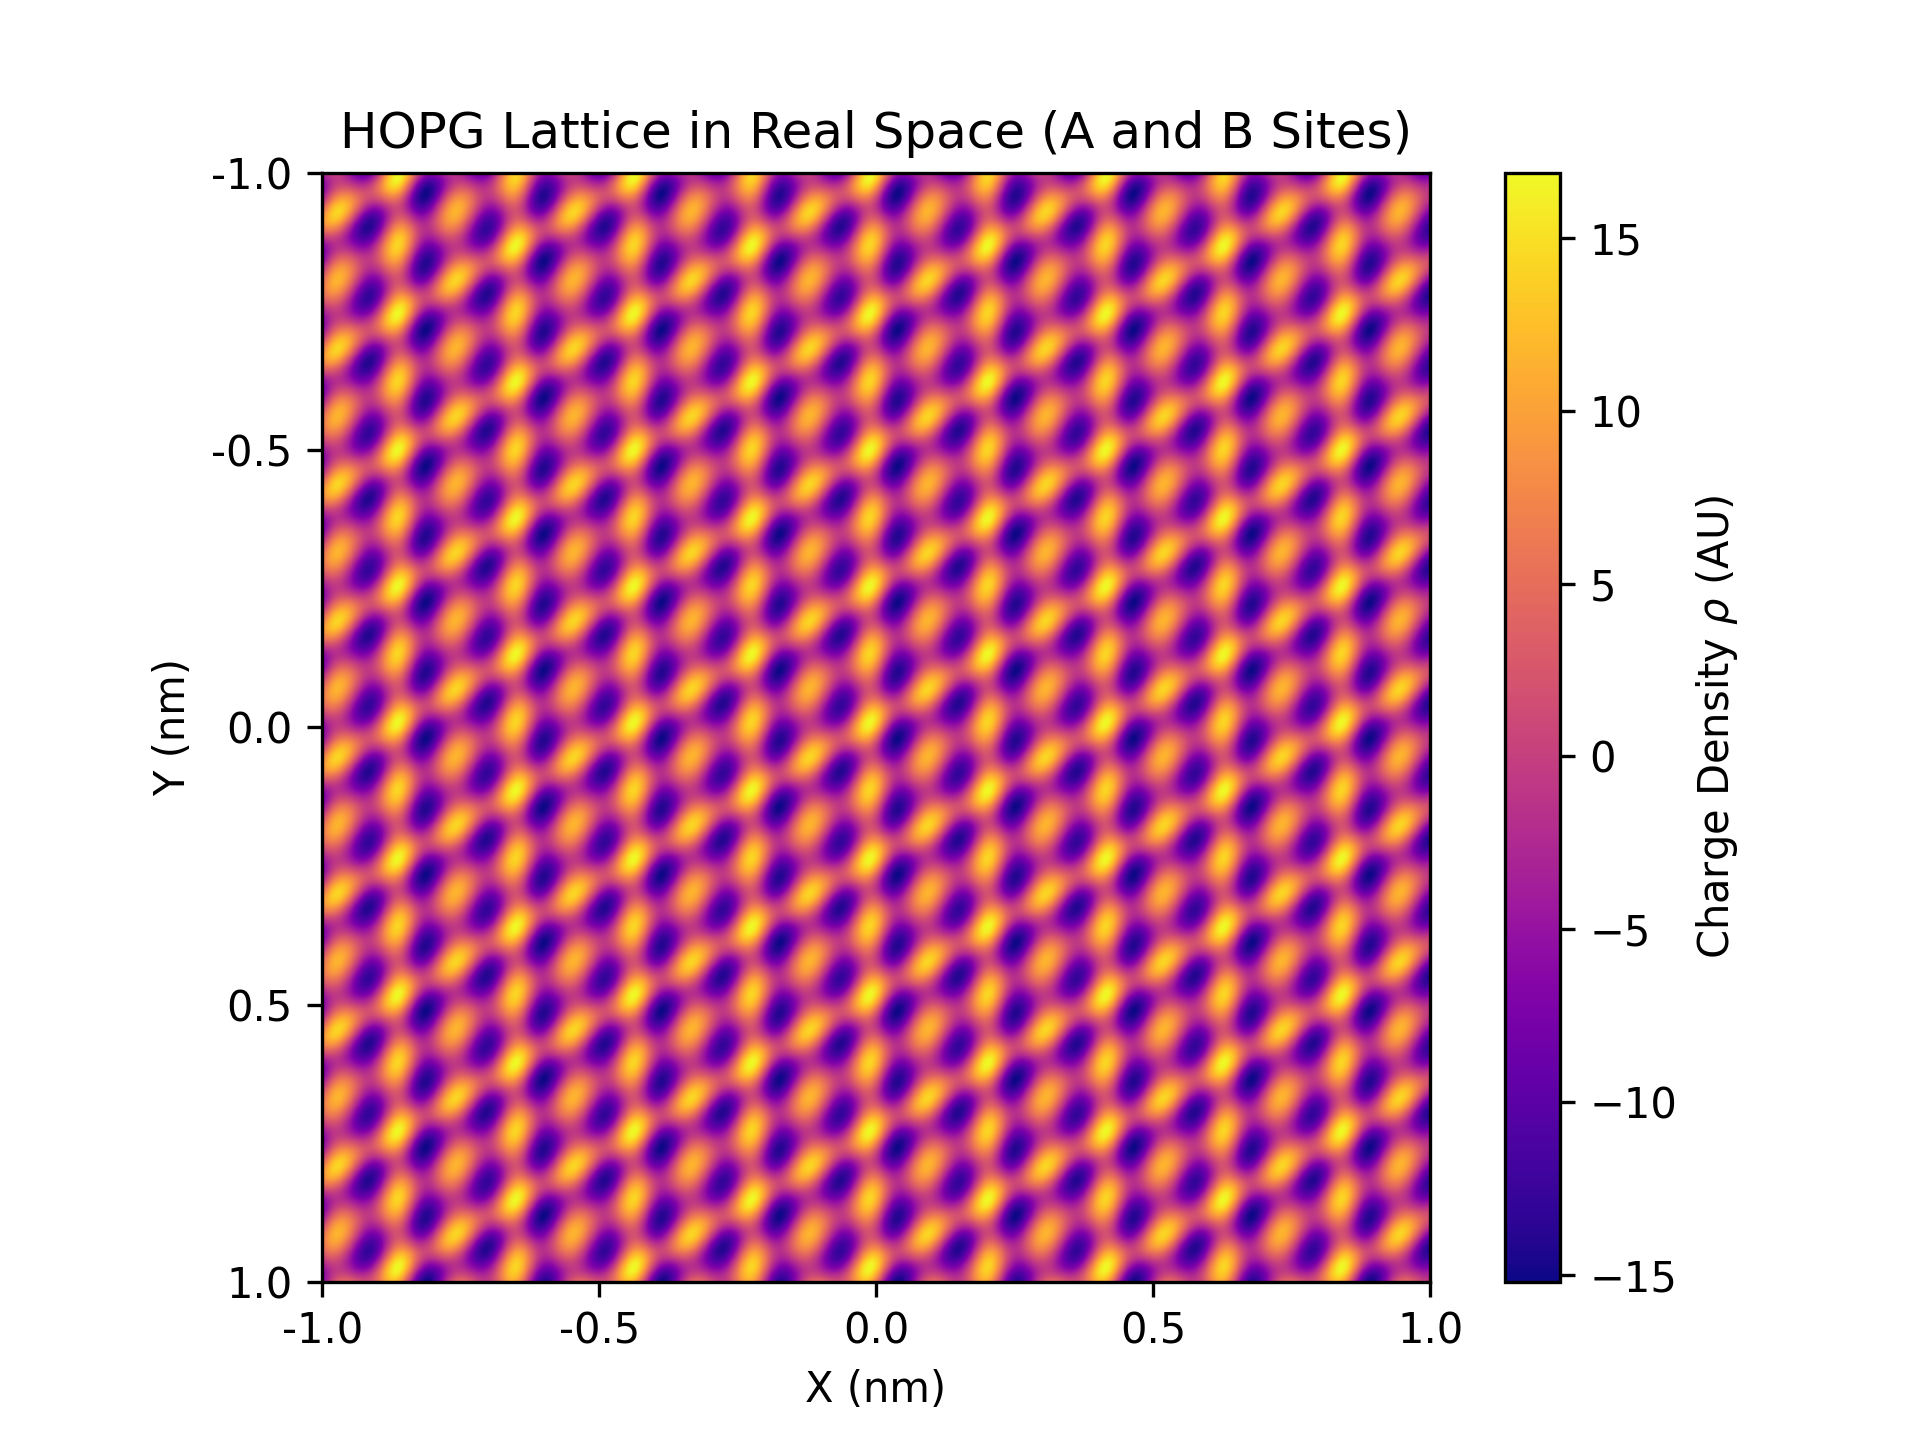
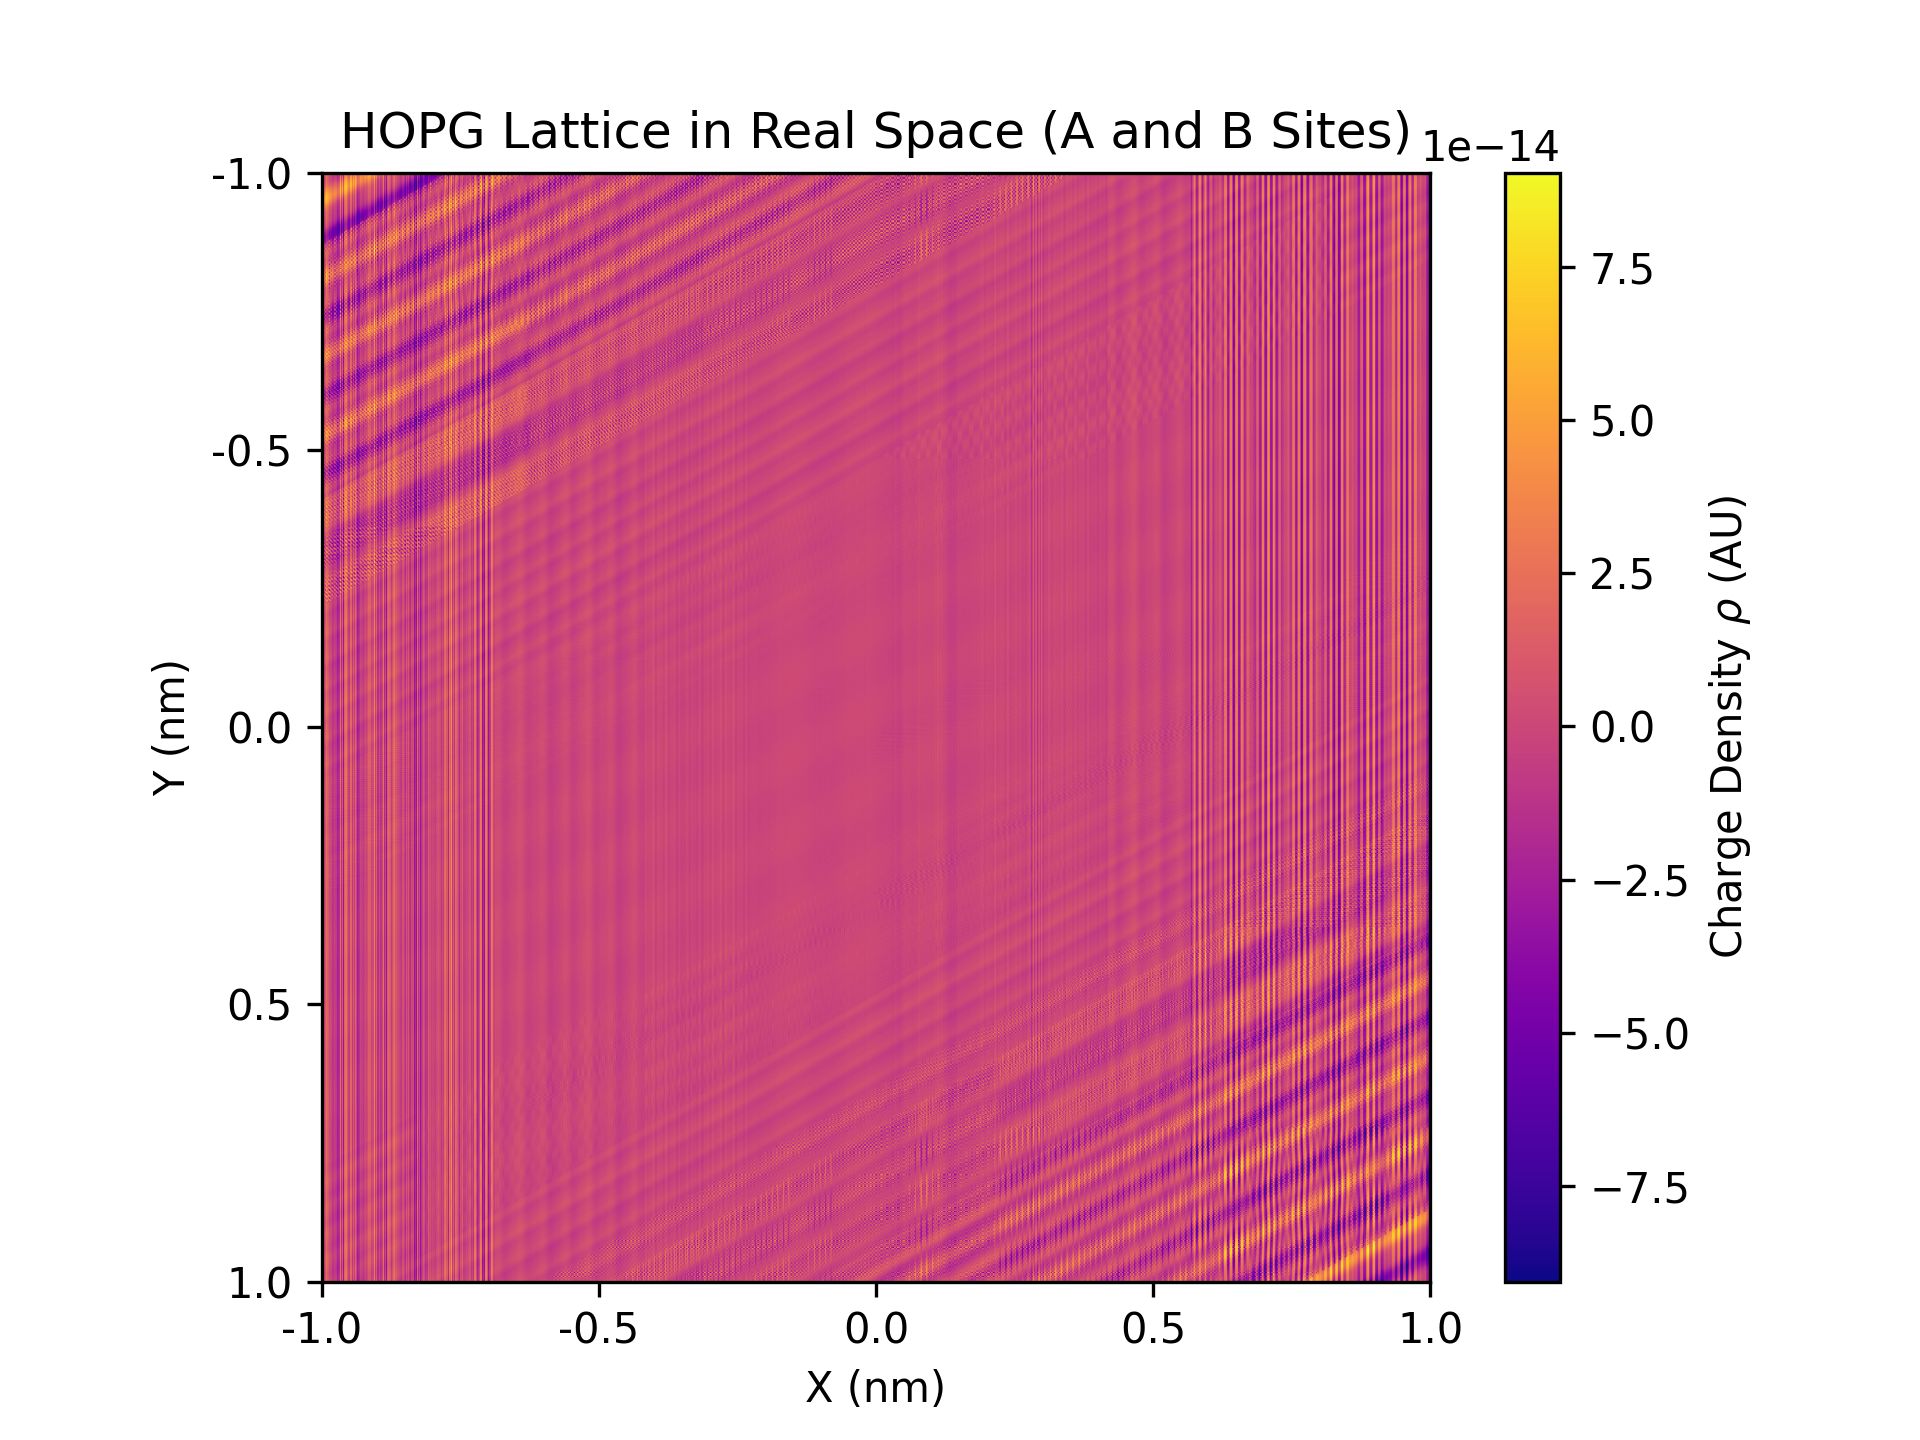
Added A-B site simulation and the inverse space image

diff --git a/FFTSim.py b/FFTSim.py
@@ -8,7 +8,8 @@ def generate_wave_vectors(k, theta, n_harmonics):
     for n in range(1, n_harmonics + 1):
         kx1, ky1 = n * k, 0
         kx2, ky2 = n * k * np.cos(theta), n * k * np.sin(theta)
-        wave_vectors.append((kx1, ky1, kx2, ky2))
+        kx3, ky3 = n * k * np.cos(-theta), n * k * np.sin(-theta)
+        wave_vectors.append((kx1, ky1, kx2, ky2,kx3,ky3))
     return wave_vectors
 
 def generate_coefficients(num_coefficients,order=2):
@@ -28,16 +29,17 @@ def simulate_hopg_lattice(n_harmonics, k, theta, real_space_size,order,n):
     lattice_real_space = np.zeros_like(X)
 
     # Adding contributions from A and B sites
-    for i, (kx1, ky1, kx2, ky2) in enumerate(wave_vectors):
+    for i, (kx1, ky1, kx2, ky2, kx3, ky3) in enumerate(wave_vectors):
         P = P_n[i]
         # A-site contribution
-        lattice_real_space += P * (np.cos(kx1 * X + ky1 * Y) + np.cos(kx2 * X + ky2 * Y))
-        # B-site contribution with a phase shift
-        lattice_real_space += P * (np.cos(kx1 * X + ky1 * Y + np.pi/2) + np.cos(kx2 * X + ky2 * Y + np.pi/2))
+        lattice_real_space += P * (np.cos((kx1 * X + ky1 * Y)) + np.cos((kx2 * X + ky2 * Y))+np.cos((kx3 * X + ky3 * Y)))
 
-    sigma = 10  # standard deviation for Gaussian smoothing
+        # B-site contribution with a phase shift
+        lattice_real_space += P * (np.cos((kx1 * X + ky1 * Y) + np.pi) + np.cos((kx2 * X + ky2 * Y) + np.pi)+np.cos((kx3 * X + ky3 * Y) + np.pi))
+
+    sigma = 100  # standard deviation for Gaussian smoothing
     gaussian_envelope = np.exp(-(X**2 + Y**2) / (2 * sigma**2))
-    lattice_real_space_smooth = lattice_real_space
+    lattice_real_space_smooth = lattice_real_space 
 
     # Plot real space lattice
     plt.title("HOPG Lattice in Real Space (A and B Sites)")
@@ -74,10 +76,10 @@ def simulate_hopg_lattice(n_harmonics, k, theta, real_space_size,order,n):
 
     plt.xlabel(r"$k_x$ (1/nm)")
     plt.ylabel(r"$k_y$ (1/nm)")
-    plt.xlim(n//2-50,n//2+50)
-    plt.ylim(n//2-50,n//2+50)
-    plt.xticks(ticks=np.linspace(n//2-50, n//2+50, 5), labels=np.round(np.linspace(kx[n//2-50], kx[n//2+50], 5), 1))
-    plt.yticks(ticks=np.linspace(n//2-50, n//2+50, 5), labels=np.round(np.linspace(ky[n//2-50], ky[n//2+50], 5), 1))
+    plt.xlim(n//2-100,n//2+100)
+    plt.ylim(n//2-100,n//2+100)
+    plt.xticks(ticks=np.linspace(n//2-100, n//2+100, 5), labels=np.round(np.linspace(kx[n//2-100], kx[n//2+100], 5), 1))
+    plt.yticks(ticks=np.linspace(n//2-100, n//2+100, 5), labels=np.round(np.linspace(ky[n//2-100], ky[n//2+100], 5), 1))
     plt.colorbar(label='Intensity (AU)')
     plt.savefig(f"Produced_Plots/FFTSIM/HOPG_Lattice_Reciprocal_Space_{real_space_size}nm.png", dpi=300)
     plt.show()
@@ -86,8 +88,8 @@ def simulate_hopg_lattice(n_harmonics, k, theta, real_space_size,order,n):
 # Constants for HOPG lattice
 a = 0.246  # lattice constant for graphene in nm
 k = 2 * np.pi / a  # wave vector
-n_pts = 2000 # size of the simulation grid
+n_pts = 3000 # size of the simulation grid
 real_space_size = 3 # nm
 theta = np.pi / 3  
-n_harmonics = 20  # number of harmonics to include in the lattice
-simulate_hopg_lattice(n_harmonics, k, theta, real_space_size,5,n_pts)
+n_harmonics = 10  # number of harmonics to include in the lattice
+simulate_hopg_lattice(n_harmonics, k, theta, real_space_size,10,n_pts)
